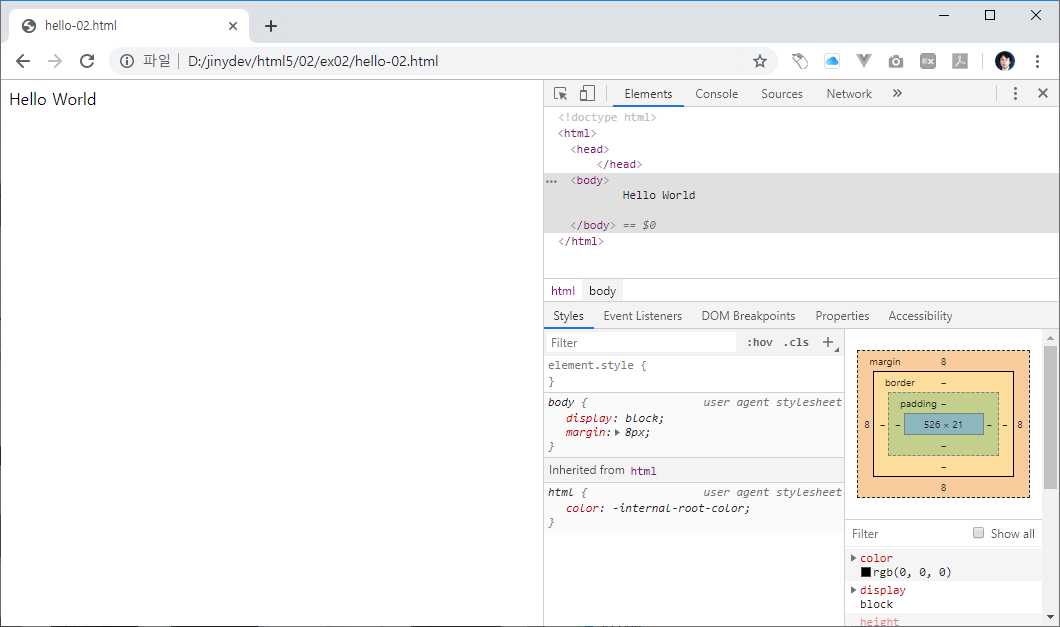
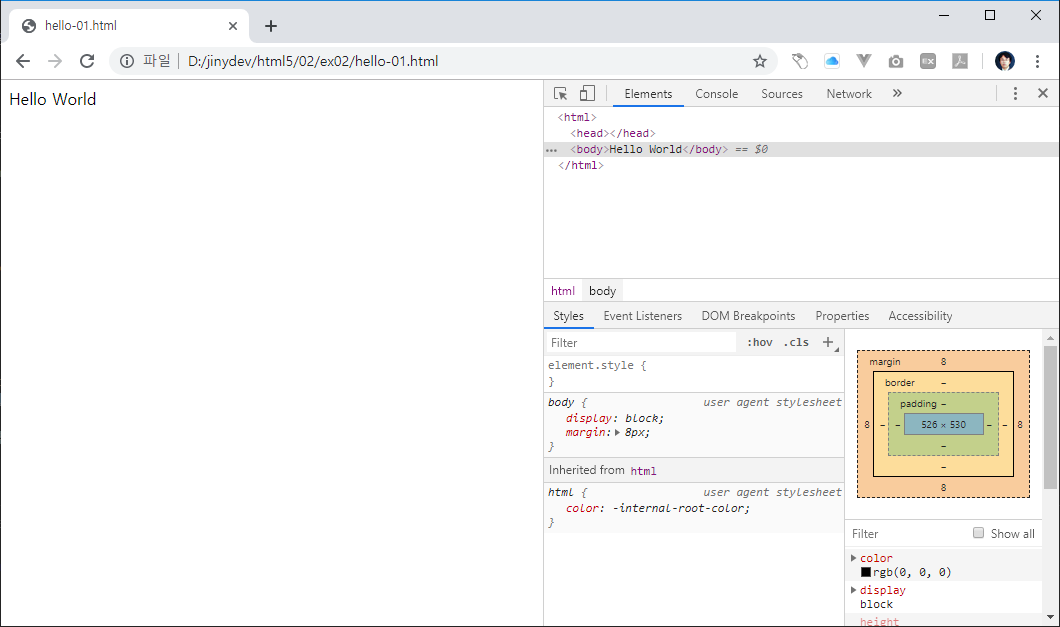
02/03 수정 정리

Changed region(s): [[0.4981, 0.0, 1.0, 1.0], [0.8717, 0.6667, 0.9028, 0.697]]

diff --git a/02/hello.md b/02/hello.md
@@ -1,25 +1,33 @@
 # 인사말 출력
-웹 브라우저에서 확인을 할 수 있는 인사말을 생성해 봅니다.
+웹 브라우저에서 확인을 할 수 있는 인사말을 문서를 생성해 봅니다.
 
 ## 파일 생성
-웹 브라우저에서 처리할 수 있는 파일을 생성합니다.
+먼저, 웹 문서 파일을 하나 생성하여야 합니다. vscode를 실행하고 새로운 파일을 생성합니다. 
+`file->new file`을 선택하여 새로운 파일을 생성합니다. 파일명은 `hello.html`로 입력을 합니다.
 
-vscode에서 새로운 파일을 생성합니다. 파일명은 `index.html`로 입력합니다.
-HTML은 `.html` 또는 `.htm` 파일로 되어 있습니다.
+웹문서의 파일은 `.html` 또는 `.htm` 확장자를 가지고 있습니다.
+
+> 확장자
+> 확장자는 파일의 형식을 구분하기 위한 표시 입니다.
 
 ## 인사말 작성
-비어있는 `index.html` 파일을 선택합니다.
+새로운 `hello.html` 파일이 생성이 되었습니다. 아직 아무것도 없는 비어있는 파일입니다.
 다음과 같이 내용을 입력합니다.
 
 ```html
 Hello World
 ```
 
-파일을 저장합니다.
+파일을 저장합니다. 파일이 수정이되면 상단 파일명 탭에 * 표시가 같이 출력이 됩니다. 이는 아직 파일이 수정후에 저장이 되어 있지 않다는 것을 표시하는 것입니다.  
+vscode에서 `file->save`를 선택합니다. 또는 단축키 `ctrl+s`를 입력합니다.
+
+> 자동저장
+> vscode는 파일이 수정되면 자동으로 저장할 수 있도록 환경옵션을 설정할 수 있습니다.
+> `file->preferences->setting` 을 선택합니다. `commonly->auto save`를 설정합니다.
+
 
 ## 확인
-작성한 `hello-01.html` 파일을 웹 브라우저로 확인을 합니다.
-크롬 브라우저 url에서 로컬 컴퓨터의 파일 위치를 입력합니다.
+작성한 `hello.html` 파일을 웹 브라우저로 확인을 합니다. 크롬 브라우저 url에서 로컬 컴퓨터의 파일 위치를 입력합니다.
 
 작성예시)
 ```
@@ -28,4 +36,15 @@ file:///D:/jinydev/html5/02/ex02/hello-01.html
 
 결과확인
 ![hello](./img/hello-01.png)
+
+## 코드확인
+크롬 브라우저를 통하여 개발화 도구를 활성화 합니다. 단축키 `f12`를 누르면 오른쪽에 크롬 개발자 도구가 활성화 됩니다.
+개발자 도구에서 `Elements` 텝을 클립합니다.
+
+결과확인
+![hello](./img/hello-02.png)
+
+우리는 앞에서 `hello world` 라는 텍스트만 입력을 하였습니다. 하지만, 그외 다른 코드들이 같이 출력이 되는 것을 확인할 수 있습니다.
+
+[다음](./html5)
 

diff --git a/01/chrome.md b/01/chrome.md
@@ -1,0 +1,22 @@
+# 브라우저
+웹사이트를 접속하여 문서 내용을 보기 위해서는 브라우저가 필요로 합니다.  
+브라우저는 인터넷 네트워크를 통하여 서버에 접속을 합니다. 서버에서 요청한 페이지를 읽어서 이를 화면에 출력을 합니다.
+
+## 브라우저의 종류
+웹페이지를 확인할 수 있는 브라우저는 다양하게 존재합니다.  
+윈도우의 운영체제의 경우 기본적으로 `익스플로어` 브라우저가 기본적으로 탑제가 되어 있습니다.
+맥 운영체제의 경우 `사파리` 브라우저가 기본적으로 탑제가 되어 있습니다.
+
+그외에 `크롬`, `파이어폭스` 브라우저가 있습니다. 이들의 브라우저를 사용하기 위해서는 별도로 다운로드 하여 설치를 하여야 합니다.
+
+## 크롬 브라우저
+크롬 브라우저는 `구글`에서 개발 배포하고 있는 브라우저 있습니다. 크롬 브라우저는 가장 많은 HTML5 표준을 지원하고 있습니다.  
+또한 많은 개발자들이 사랑하는 브라우저이기도 합니다.
+
+크롬 브라우저는 무료로 다운로드 받아 설치를 할 수 있습니다. 아래의 사이트에 접속하여 크롬 브라우저를 설치합니다.  
+https://www.google.com/intl/ko/chrome/
+
+크롬 브라우저의 경우 웹 개발자를 위하여 별도의 `개발자 도구`를 지원합니다.  
+오른쪽 마우스를 클릭하여 `검사`를 선택합니다. 또는 단축키 `ctl+shift+I`를 통하여 실행을 할 수 있습니다.
+
+

diff --git a/02/html5.md b/02/html5.md
@@ -1,8 +1,11 @@
-# 웹 문서구조
+# html5 문서구조
 이전에서는 `hello world` 문자열을 웹 브라우저로 출력을 하였습니다.
 
 최신 웹 브라우저는 기능이 많이 좋아져서, html 문서 규격을 맞지 않아도 정상적으로 우리가 원하는 문자열을 화면에 출력을 할 수 있습니다.  
 하지만, 정상적인 웹페이지를 화면 출력 하기 위해서는 html 문서구조를 맞추어 주어야 합니다.
+
+## html 테그
+앞에서 우리는 간단하게 테그의 기본에 대해서 학습을 하였습니다. html 문서는 html 테그를 기반으로 작성을 하게 됩니다.
 
 ## 문서타입
 작성된 코드가 html 형태의 파일임을 알리는 코드를 첫줄에 작성을 합니다.
@@ -43,8 +46,13 @@ body 영역은 `<body></body>` 테그로 감싸져 있습니다.
 </html>
 ```
 
+![hello](./img/html5.png)
+
 ## 확인
-다시 작성한 html 문서를 브라우저에서 확인을 합니다. 이전과 다른 점은 없습니다.
+다시 작성한 html 문서를 브라우저에서 확인을 합니다. 
+
+
+이전과 다른 점은 없습니다.
 하지만 html 웹 구조에 맞에 정확히 문서를 작성을 하였을뿐입니다.
 
 html 문서 규격에 맞추어 코드를 작성을 해야만 , 예상되지 못한 문제를 방지하고

diff --git a/index.md b/index.md
@@ -1,14 +1,29 @@
-# HTML5
-HTML 및 웹프론트 개발을 위한 학습과정을 담고 있습니다.  본 문서의 개선이나 오류를 수정하여 풀-리퀘스트를 전송할 수 있습니다.
+웹사이트 개발을 위한 HTML5에 대해서 학습을 합니다.
+
+# 1강 : 소개
+html5 의 소개와 개발을 위한 환경 설정에 대해서 설명을 합니다.
+
+## 01. 환경설정
+웹프론트 개발을 위한 로컬 PC 환경을 구축합니다. 개발 환경을 구축하기 위한 도구들을 설치합니다.
+
+* [크롬] 브라우저 설치
+* [VSCode] 설치
 
 
-## 단계1 : [개발환경](./01/setup)
-로컬 컴퓨터에서 웹개발 환경을 구축하기 위한 도구들을 설치합니다.
+## 2강 : 시작하기
+간단한 인사말 웹페이지 파일을 생성합니다. 웹 문서의 구조를 확인합니다.
+
+* [헬로우월드](./02/hello)
+* [테그](./02/tag)
+* [문서구조](./02/html5)
 
 
-## 단계2 : [헬로우월드](./02/hello)
-* 브라우저를 통하여 `hello world` 문자를 출력합니다.
-* 문서구조
+## 3강: 글자테그
+html 글을 꾸미기 위한 기본적인 테그에 대해서 학습을 합니다.
+
+* [제목테그](./03/h)
+* [본문](./03/p)
+
 
 
 

diff --git a/02/tag.md b/02/tag.md
@@ -1,0 +1,23 @@
+# 테그
+테그는 html 웹 문서를 꾸미기 위한 기호들 입니다.
+
+## 테그기호
+html 테그기호는 W3C에서 규정한 웹문서의 작성 방법 및 규정을 말합니다.
+
+## 테그의 종류
+html의 테그는 크게 2개의 종류로 구분할 수 있습니다.
+`시작`과 `종료`가 한쌍으로 되어 있는 테그와 `단일`테그로 되어 있는 기호 입니다.
+그리고 테그로 묶여저 있는것을 html의 요소라고 합니다. 
+
+### 한쌍으로 되어 있는 테그
+```html
+<h1>hello world</h1>
+```
+한쌍으로 되어 있는 테그는 테그 시작과 테그 종료 사이에 내용을 삽입할 수 있습니다.
+
+### 단일 테그
+하나이 테크 기호를 통하여 요소를 생성할 수 있습니다.
+
+```html
+<br/>
+```

diff --git a/03/h.md b/03/h.md
@@ -1,0 +1,26 @@
+# 제목 테그
+html은 제목을 쉽게 표기하여 위하여 미리 사전에 정의한 테그들이 존재합니다.
+
+## 글자 크기
+html의 제목 테그는 `<h숫자> </h숫자>` 형태로 사용합니다. 숫자는 크게 6종류를 제공합니다.
+
+```html
+<!DOCTYPE html>
+<html>
+    <head> 
+    </head>
+    <body>
+        
+        <h1>Hello world</h1>
+        <h2>Hello world</h2>
+        <h3>Hello world</h3>
+        <h4>Hello world</h4>
+        <h5>Hello world</h5>
+        <h6>Hello world</h6>
+
+    </body>
+</html>
+```
+
+## 인기테그
+html은 기본적으로 6개의 제목 테그를 지원합니다. 하지만, 실제 개발에서 주로 사용되는 테그는 1~3 까지이 테그만 이용이 됩니다.

diff --git a/03/p.md b/03/p.md
@@ -1,0 +1,23 @@
+# 본문 테그
+html의 본문을 작성할때는 어떤 테그를 사용할까요? 본문을 작성을 할때에는 p 테그를 사용합니다.
+
+
+## 단락
+p 테그는 영어의 단락(paragraph)의 앞글자를 의미 합니다. p 테그는 본문의 단락을 지정할 때 사용을 합니다.
+
+```html
+<!DOCTYPE html>
+<html>
+    <head> 
+    </head>
+    <body>
+        
+        <h1>안녕하세요</h1>
+        
+        <p>
+            날씨가 참 좋네요. 오늘도 좋은 하루가 되었으면 합니다.
+        </p>
+
+    </body>
+</html>
+```

diff --git a/README.md b/README.md
@@ -1,11 +1,4 @@
 # HTML5 스터디
 본 문서는 HTML5 모던 웹사이트 개발을 위한 학습자료 입니다.
 
-## 웹사이트
-학습자료는 깃허브 페이지 https://jinydev.github.io/html5 로 접속하면
-웹 화면으로 보실 수 있습니다.
-
-## 참여
-본 문서는 눈구에게나 공개되어 있습니다. 본 문서의 개선을 위해서 참여를 같이 할 수 있습니다.
-저장소를 포크하여 풀-리퀘스트를 보내주시면 됩니다.
-
+사이트 접속 : html5.jiny.dev

diff --git a/01/vscode.md b/01/vscode.md
@@ -1,0 +1,13 @@
+#  편집기
+HTML및 코드를 작성하기 위해서 코드 편집기를 설치 합니다. 코드를 편집할 수 있는 도구는 많이 존재합니다.
+
+* vscode
+* 서브라임 텍스트
+* 아톰 에디터
+* 브라켓
+
+## VSCode
+VScode는 마이크로소프트의 무료로 배포하는 코드 편집기 입니다.
+https://code.visualstudio.com/
+
+
